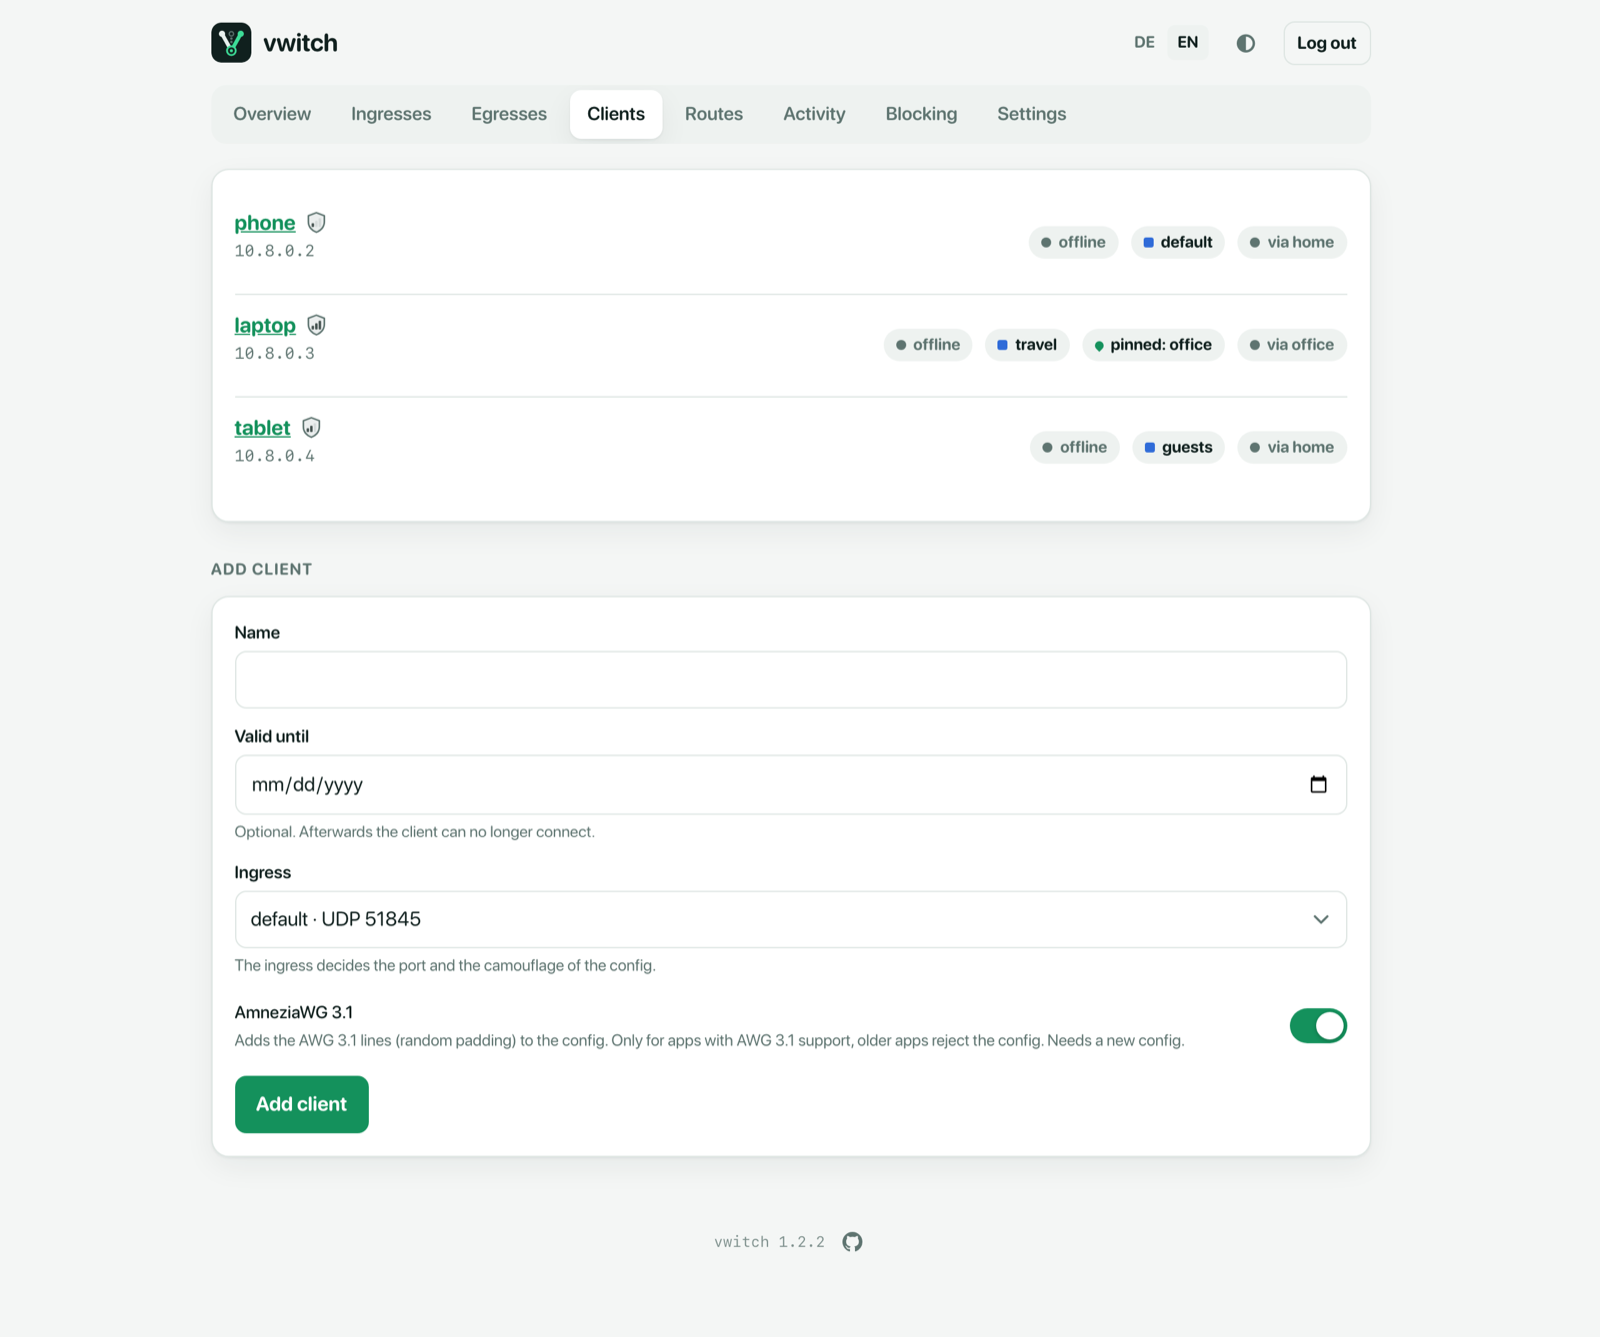
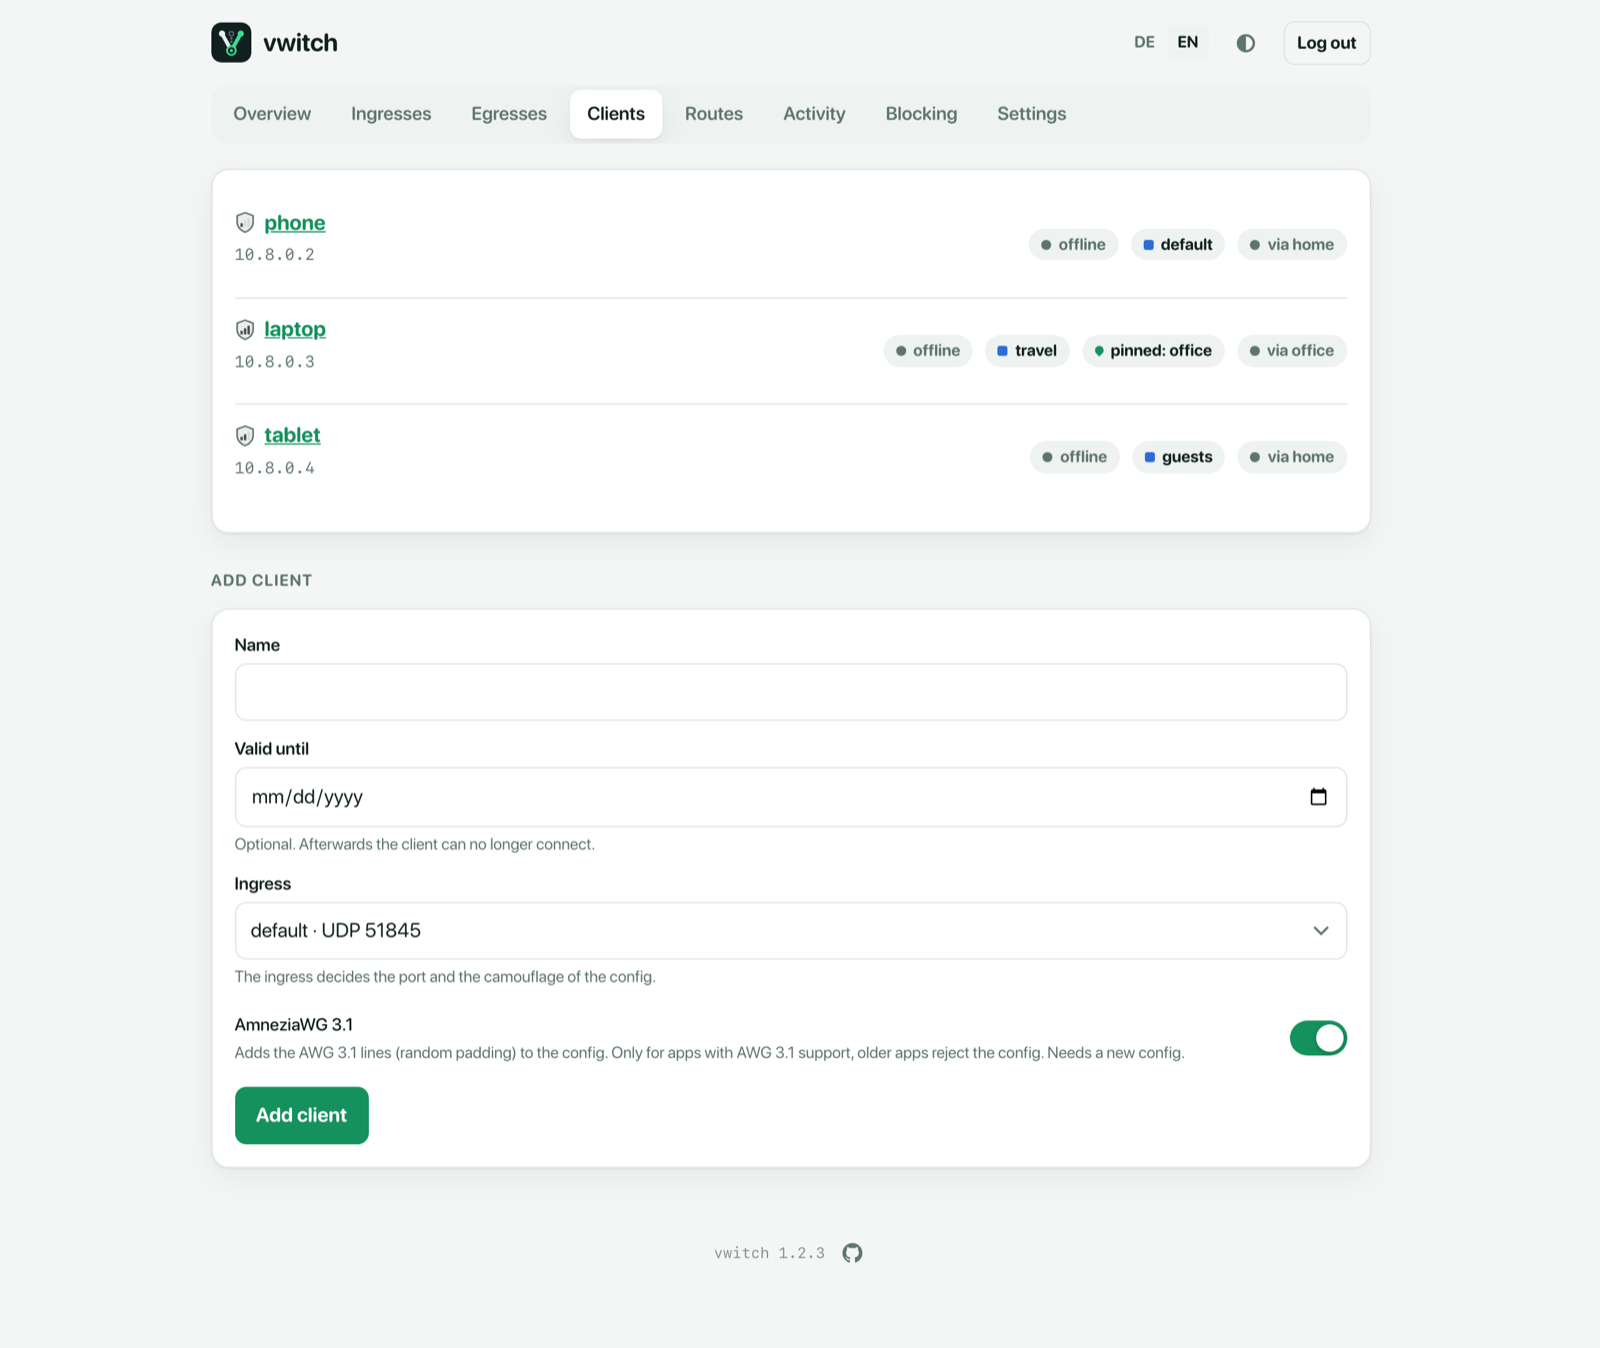
fix: camouflage shield before the client name (#15)
* fix: camouflage shield before the client name

* docs: shield before the client name

diff --git a/web/templates/clients.html b/web/templates/clients.html
@@ -4,7 +4,7 @@
   {{range .Data.Status.Clients}}
     <li class="row">
       <div>
-        <h3 class="with-camo"><a href="/clients/{{.Name}}">{{.Name}}</a>{{template "camo" (withLang $l .)}}</h3>
+        <h3 class="with-camo">{{template "camo" (withLang $l .)}}<a href="/clients/{{.Name}}">{{.Name}}</a></h3>
         <p class="muted small mono">{{.Address}}{{if .Expires}} · {{t $l "client.expires"}} {{(lastDay .Expires).Format "02.01.2006"}}{{end}}</p>
       </div>
       <span class="spacer"></span>

diff --git a/docs/clients.md b/docs/clients.md
@@ -17,7 +17,7 @@ no egress works* applies). A client with its own strategy shows the name of
 that strategy instead. Clients without a pin follow the strategy from the
 [settings](settings.md).
 
-The small shield next to each name shows the client's
+The small shield before each name shows the client's
 [camouflage level](#camouflage-level) with one to three bars. It is coloured
 while the client is online and grey otherwise; hover it to see the level.
 
